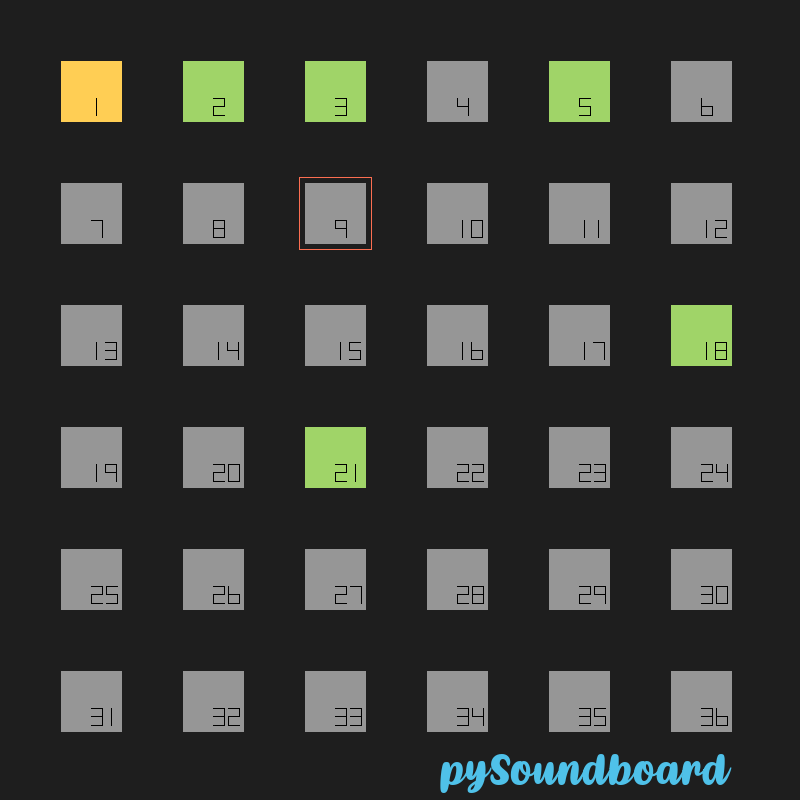
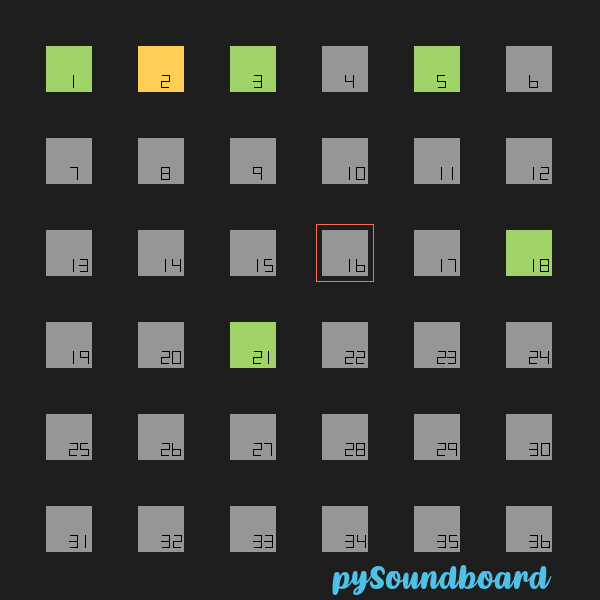
reduzed window size

diff --git a/src/soundboard.py b/src/soundboard.py
@@ -6,7 +6,7 @@ import pygame
 from pygame.locals import *
 
 # variables
-size = [800, 800]
+size = [600, 600]
 rows = 6  # 10 max
 spacing = int(size[0]/(1+2*rows))
 
